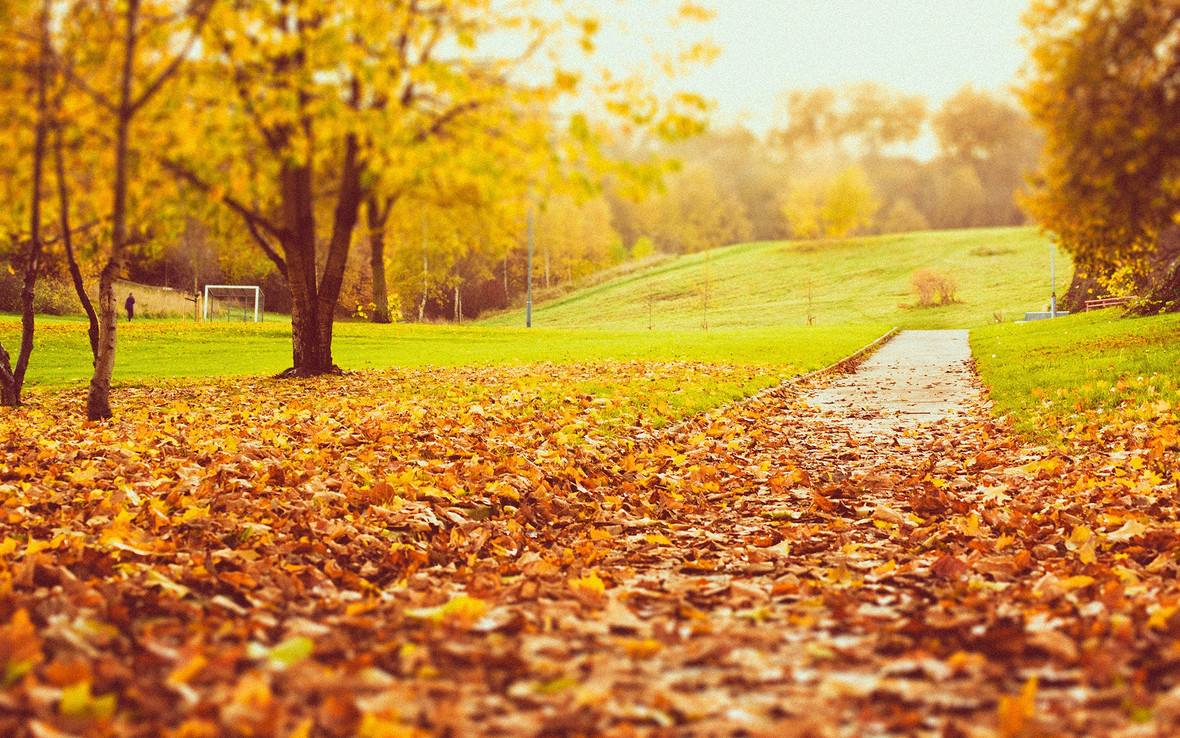
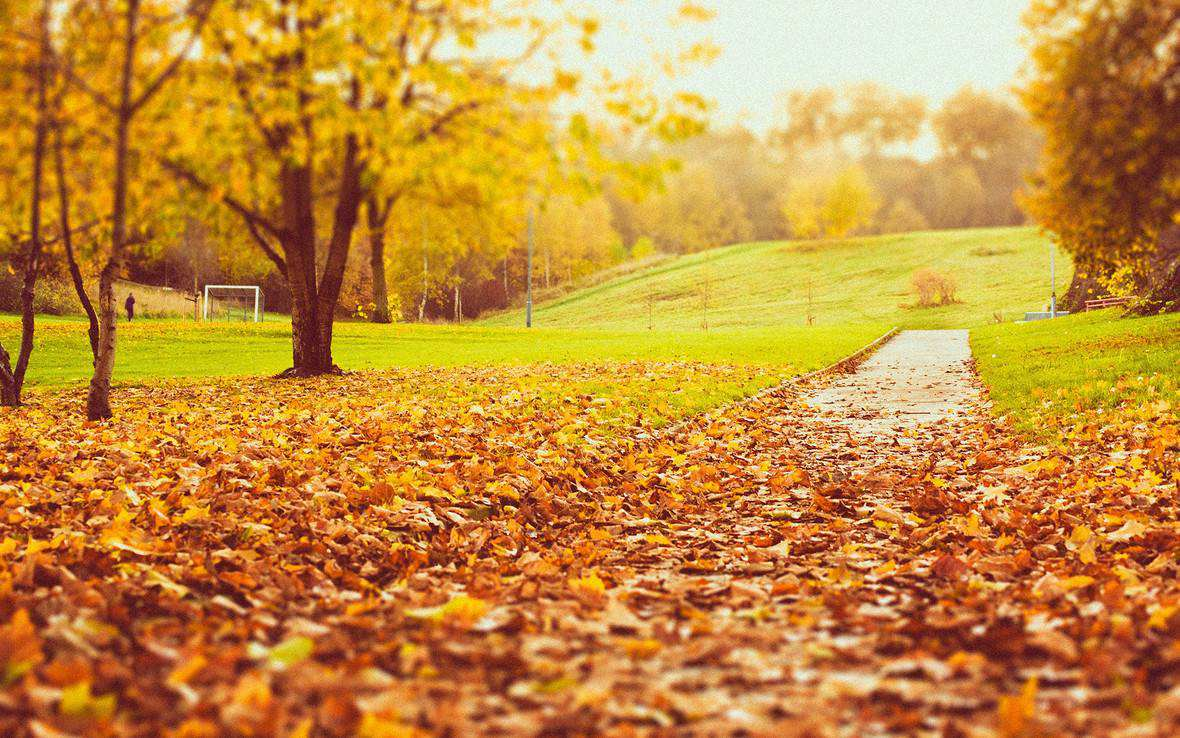
fix: 图片大小优化

diff --git a/source/_drafts/drop/ios-apple-m1.md b/source/_drafts/drop/ios-apple-m1.md
@@ -1,0 +1,16 @@
+---
+title: Apple M1 研究
+date: 2021-01-04 21:00:00
+tags:
+    - M1芯片
+categories: 研究
+toc: true
+---
+
+在2020年6月的发布会上，苹果正式向外界公布了 Mac 打造 Apple Silicon 的计划。在发布会上，苹果带来了3台搭载 Apple M1 芯片的 Mac。
+作为第一款载有 arm 芯片的电脑，一经推出便引起了业内的轰动，这也是苹果向 Apple Platform 统一计划迈出的重大一步。 
+本文主要介绍这些载有 arm 芯片的新 Mac 将会给当前的 iOS 带来什么影响。
+
+<!--more-->
+## Xcode 的变化
+

diff --git a/source/_drafts/ios-debugcheck-summay.md b/source/_drafts/ios-debugcheck-summay.md
@@ -106,10 +106,3 @@ void* my_dlsym(void* __handle, const char* __symbol){
 
 ## sysctl
 当一个进程被调试时，该进程中会有一个标记位来标记它正在被调试。可以通过 sysctl 函数査看当前进程的信息，通过是否有这个标记位即可检査当前调试的状态。
-
-### 反调试
-
-
-
-
-### 反反调试
